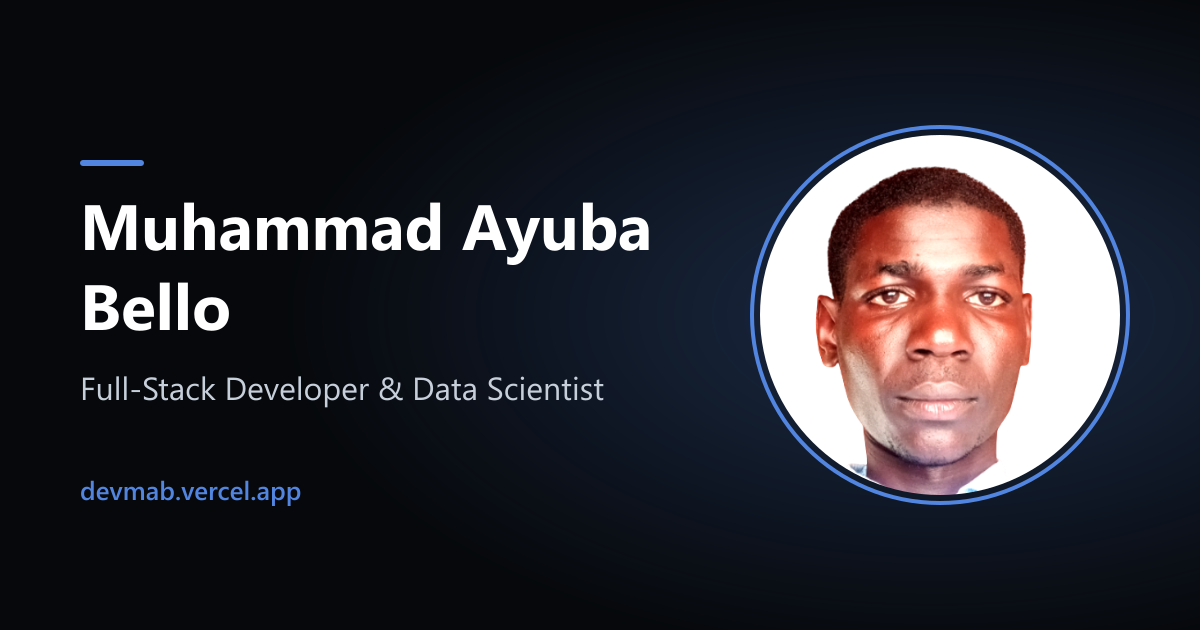
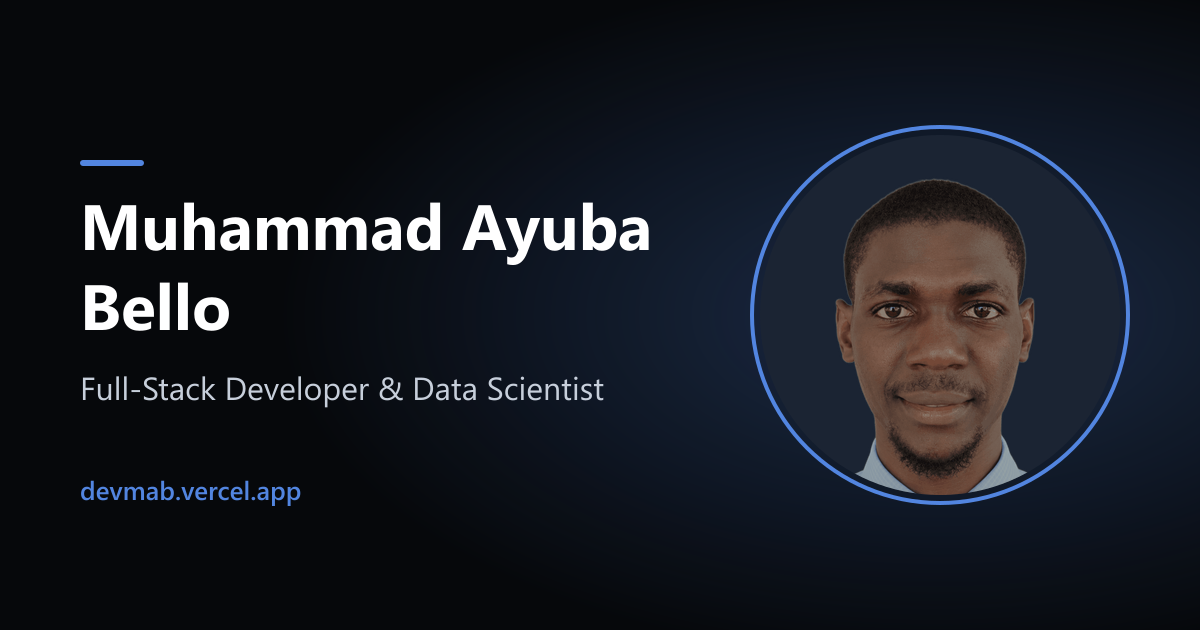
feat: use the new headshot (background removed) everywhere
- public/headshot.webp: new headshot with the background removed
  (local ISNet segmentation model), 600x800 WebP with transparency, 32 KB
- Hero and About now use it (previously photo_bg.webp)
- og-image.png share card regenerated from the new headshot
- Remove the old photos (photo_bg.webp, self_pic.png, self_bg.png)

Changed region(s): [[0.6167, 0.2111, 0.9558, 0.7841]]

diff --git a/src/pages/About.tsx b/src/pages/About.tsx
@@ -47,10 +47,10 @@ const About = () => {
                   <div className="glass-card rounded-2xl border border-border/40 shadow-xl overflow-hidden p-1">
                     <div className="bg-muted rounded-xl h-full w-full flex items-center justify-center aspect-square">
                       <img
-                        src="/photo_bg.webp"
+                        src="/headshot.webp"
                         alt="Muhammad Ayuba Bello"
-                        width={277}
-                        height={370}
+                        width={600}
+                        height={800}
                         className="rounded-xl object-cover w-md h-md"
                       />
                     </div>

diff --git a/src/components/Hero.tsx b/src/components/Hero.tsx
@@ -53,10 +53,10 @@ const Hero = () => {
             <div className="glass-card rounded-2xl border border-border/40 shadow-xl overflow-hidden p-1 ">
               <div className="bg-muted rounded-xl h-full w-full flex items-center justify-center aspect-square">
                 <img
-                  src="/photo_bg.webp"
+                  src="/headshot.webp"
                   alt="Muhammad Ayuba Bello"
-                  width={277}
-                  height={370}
+                  width={600}
+                  height={800}
                   {...highPriority}
                   className="rounded-xl object-cover w-md h-md"
                 />
